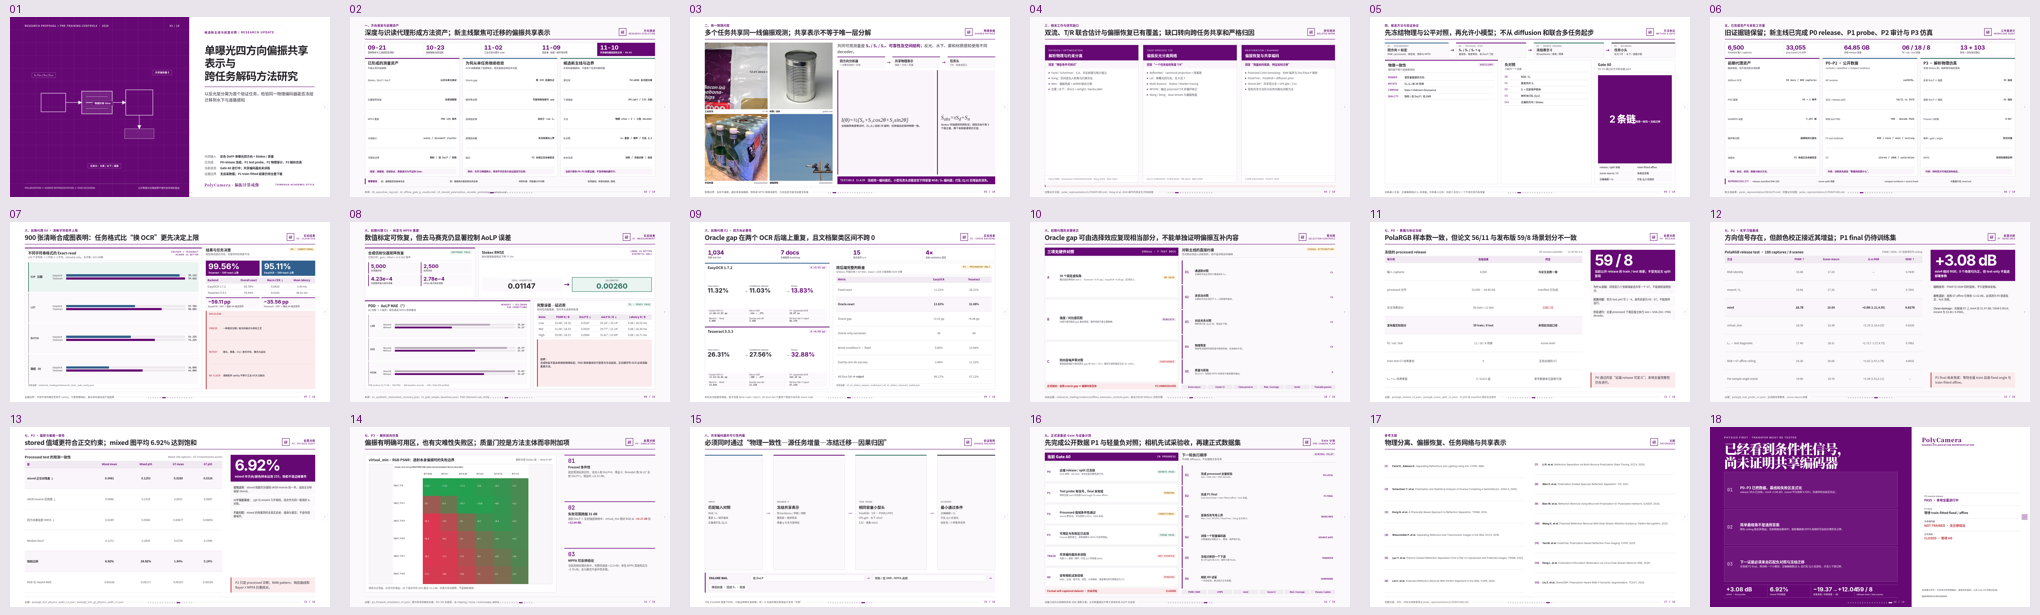
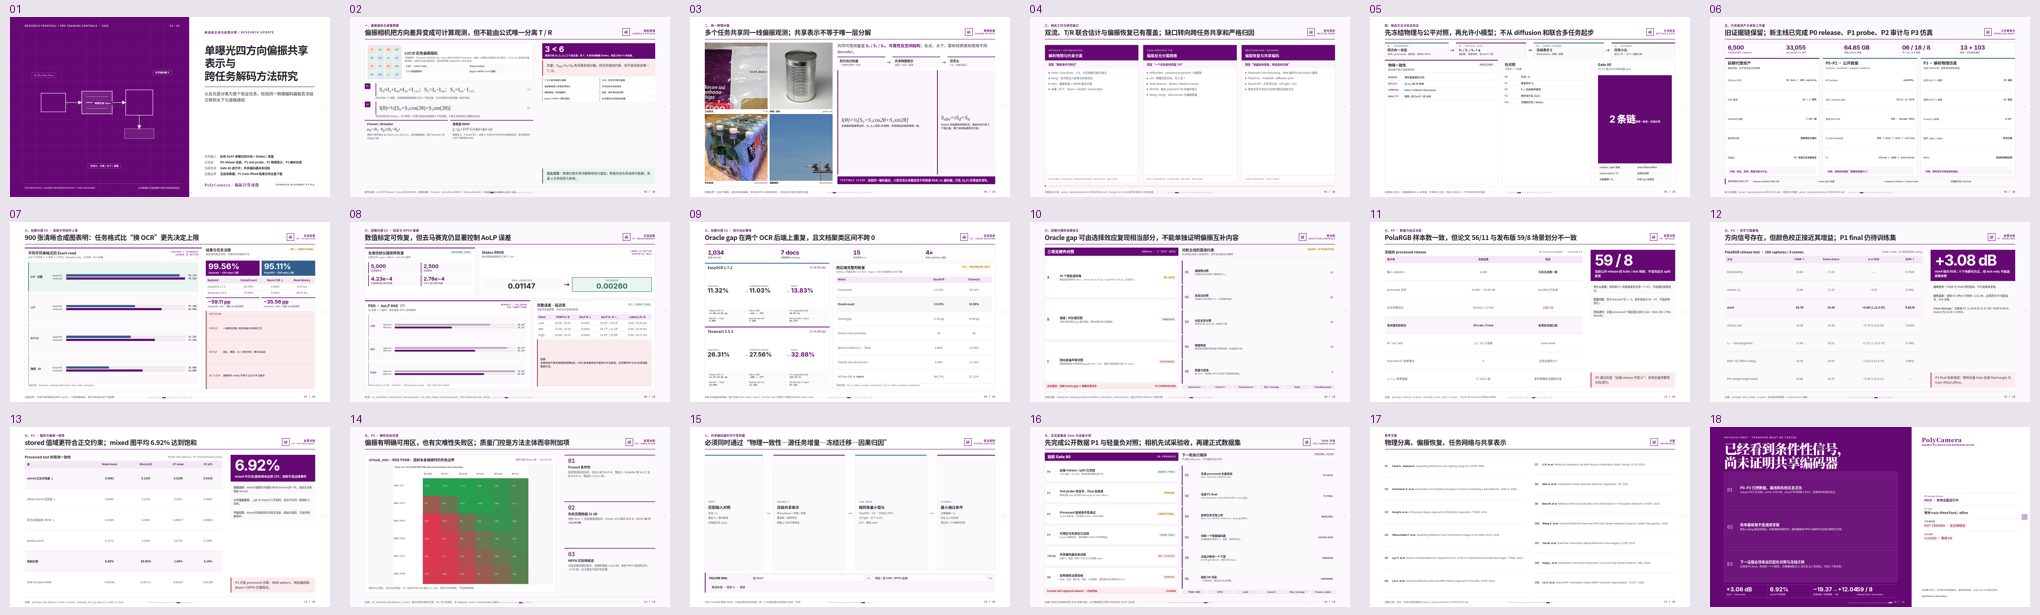
docs: revise slide 2 camera physics

Changed region(s): [[0.1544, 0.0309, 0.3088, 0.2472], [0.1853, 0.278, 0.3088, 0.3089]]

diff --git a/demo/tsinghua-ppt/index.html b/demo/tsinghua-ppt/index.html
@@ -208,6 +208,25 @@
   .variable-list{display:grid;gap:0;align-content:start}
   .variable{display:grid;grid-template-columns:5.5em 1fr;gap:.8vw;padding:1.05vh 0;border-bottom:1px solid var(--line);font:400 clamp(13px,.84vw,16px)/1.45 var(--sans);color:var(--ink-soft)}
   .variable .symbol{color:var(--accent);font:italic 600 clamp(18px,1.25vw,24px)/1.25 var(--equation)}
+  .sensor-overview{display:grid;grid-template-columns:10.5em 1fr;gap:1vw;align-items:center;padding:1.1vh .9vw;border:1px solid var(--line);background:#fff}
+  .sensor-mosaic{display:grid;grid-template-columns:repeat(4,1fr);grid-template-rows:repeat(4,1fr);aspect-ratio:1;border:1px solid var(--line-strong)}
+  .sensor-cell{display:grid;place-items:center;border:1px solid rgba(255,255,255,.8);font:800 clamp(9px,.61vw,12px)/1 var(--mono)}
+  .sensor-cell.r{background:#f7dfe2;color:#9b2e39}.sensor-cell.g{background:#dff0e8;color:#25644f}.sensor-cell.b{background:#dfe9f5;color:#315f8d}
+  .sensor-copy h2{font:750 clamp(17px,1.12vw,22px)/1.22 var(--sans)}
+  .sensor-copy p{margin-top:.45vh;color:var(--muted);font:550 clamp(11px,.72vw,14px)/1.38 var(--sans)}
+  .sensor-specs{display:grid;grid-template-columns:repeat(2,1fr);gap:.38vh .5vw;margin-top:.75vh}
+  .sensor-specs span{padding:.48vh .45vw;background:var(--paper-soft);font:650 clamp(10px,.67vw,13px)/1.25 var(--sans);color:var(--ink-soft)}
+  .physics-duo{display:grid;grid-template-columns:1fr 1fr;gap:.75vw;min-height:0}
+  .physics-card{display:grid;align-content:start;gap:.52vh;padding:.85vh .75vw;border-top:3px solid var(--accent);background:var(--paper-soft)}
+  .physics-card h3{font:750 clamp(14px,.92vw,18px)/1.22 var(--sans)}
+  .physics-card .math{font:italic 500 clamp(17px,1.18vw,23px)/1.25 var(--equation);color:var(--ink)}
+  .physics-card p{font:500 clamp(11px,.72vw,14px)/1.38 var(--sans);color:var(--muted)}
+  .constraint-stack{height:100%;display:grid;grid-template-rows:auto auto 1fr auto;gap:.85vh}
+  .rank-card{padding:1.05vh .85vw;background:var(--accent);color:#fff}
+  .rank-card strong{display:block;font:800 clamp(30px,2.45vw,48px)/1 var(--sans-latin)}
+  .rank-card span{display:block;margin-top:.4vh;font:650 clamp(11px,.73vw,14px)/1.35 var(--sans)}
+  .reality-list{display:grid;grid-template-columns:1fr 1fr;gap:.5vh .5vw;align-content:start}
+  .reality-item{padding:.68vh .55vw;border-left:3px solid var(--line-strong);background:#fff;font:600 clamp(10px,.67vw,13px)/1.3 var(--sans);color:var(--ink-soft)}
 
   /* THU10 · 规律分析 */
   .analysis-layout{height:100%;display:grid;grid-template-columns:66% 1fr;gap:2.5vw}
@@ -747,17 +766,17 @@
   </div>
 </section>
 
-<section class="slide soft" data-layout="THU15" data-animate="academic" data-slide-id="direction-change">
-  <div class="thu-page"><header class="thu-header"><div><div class="thu-section">一、方向演进与前期资产</div><h1 class="thu-title">深度与识读代理形成方法资产；新主线聚焦可迁移的偏振共享表示</h1></div><div class="thu-brand"><div class="thu-brand-mark">研</div><div class="thu-brand-copy"><strong>方向演进</strong><span>Research Evolution</span></div></div></header>
-  <main class="thu-content compact"><div class="workload-layout summary-layout">
-    <div class="dense-kpis workload-kpis" data-anim><div class="dense-kpi"><strong>09-21</strong><span>透明物体与三维感知宽调研</span></div><div class="dense-kpi"><strong>10-23</strong><span>偏振辅助深度增强</span></div><div class="dense-kpi"><strong>11-02</strong><span>工业识读代理与 Gate</span></div><div class="dense-kpi"><strong>11-09</strong><span>密集角 / 强度 / 噪声零对照</span></div><div class="dense-kpi pivot"><strong>11-10</strong><span>共享编码器候选新主线 · P0–P3</span></div></div>
-    <div class="workload-cards" data-anim>
-      <article class="workload-card"><h2>已形成的测量资产</h2><p class="sub">不是从零开始换题</p><div class="workload-list"><div><span>Stokes / DoLP / AoLP</span><strong>公式与单元测试</strong></div><div><span>仪器矩阵恢复</span><strong>合成误差链</strong></div><div><span>MPFA 重建</span><strong>PDD 120 条件</strong></div><div><span>分组统计</span><strong>scene / document cluster</strong></div><div><span>可靠性边界</span><strong>饱和 / 低 DoLP / 拒绝</strong></div></div><div class="workload-result">保留：测量链、冻结协议、质量意识与可证伪 Gate。</div></article>
-      <article class="workload-card"><h2>为何从单任务继续收敛</h2><p class="sub">OCR 结果暴露了选择效应，而非直接证明互补内容</p><div class="workload-list"><div><span>Oracle gap</span><strong>跨 OCR 后端为正</strong></div><div><span>噪声零对照</span><strong>可复现相当部分 gap</strong></div><div><span>连续固定角</span><strong>未优于 raw I₀</strong></div><div><span>部署选择器</span><strong>未兑现事后上界</strong></div><div><span>结论</span><strong>P2 未成立也未被否定</strong></div></div><div class="workload-result">转向：先学习物理表示，再用不同任务头验证是否可迁移。</div></article>
-      <article class="workload-card"><h2>候选新主线与边界</h2><p class="sub">共享的是偏振场，不是某个任务的最终图</p><div class="workload-list"><div><span>源任务</span><strong>PolaRGB 反光层分离</strong></div><div><span>下游候选</span><strong>UPLight / ZJU 分割</strong></div><div><span>方法</span><strong>物理 stem + E + 小型 decoder</strong></div><div><span>负对照</span><strong>S₀ 重复 / 噪声 / 打乱 Q,U</strong></div><div><span>尚未完成</span><strong>训练 / 冻结迁移 / 自采</strong></div></div><div class="workload-result">当前只报告 P0–P3 前置证据，不宣称编码器可行。</div></article>
+<section class="slide soft" data-layout="THU09" data-animate="academic" data-slide-id="direction-change">
+  <div class="thu-page"><header class="thu-header"><div><div class="thu-section">一、偏振相机与成像物理</div><h1 class="thu-title">偏振相机把方向差异变成可计算观测，但不能由公式唯一分离 T / R</h1></div><div class="thu-brand"><div class="thu-brand-mark">研</div><div class="thu-brand-copy"><strong>相机原理</strong><span>Camera & Physics</span></div></div></header>
+  <main class="thu-content tight"><div class="formula-layout">
+    <div class="derivation" data-anim>
+      <article class="sensor-overview"><div class="sensor-mosaic" aria-label="彩色 Bayer 与四方向微偏振片组成的 4×4 采样示意，实际排列需按数据手册核对"><span class="sensor-cell r">0°</span><span class="sensor-cell g">45°</span><span class="sensor-cell r">90°</span><span class="sensor-cell g">135°</span><span class="sensor-cell g">90°</span><span class="sensor-cell b">135°</span><span class="sensor-cell g">0°</span><span class="sensor-cell b">45°</span><span class="sensor-cell r">0°</span><span class="sensor-cell g">45°</span><span class="sensor-cell r">90°</span><span class="sensor-cell g">135°</span><span class="sensor-cell g">90°</span><span class="sensor-cell b">135°</span><span class="sensor-cell g">0°</span><span class="sensor-cell b">45°</span></div><div class="sensor-copy"><h2>LUCID 彩色偏振相机</h2><p>代表硬件：Phoenix PHX050S-QC / Sony IMX250MYR Polarsens。相机一次曝光记录四方向子像元，S₀/S₁/S₂ 由标定与重建得到；左图仅示意双层采样，实际排列按 datasheet / SDK 核对。</p><div class="sensor-specs"><span>5 MP · 2448×2048</span><span>Global shutter</span><span>2×2 微偏振阵列</span><span>Bayer×MPFA = 4×4 周期</span></div></div></article>
+      <div class="derivation-step"><span class="step">01</span><div><div class="equation">S₀≈I₀+I₉₀≈I₄₅+I₁₃₅；S₁=I₀−I₉₀；S₂=I₄₅−I₁₃₅ <span class="no">(1)</span></div><p class="caption">四方向有 4 个读数，但理想线偏振模型只有 3 个独立量；正交和差异也是测量一致性检查。</p></div></div>
+      <div class="derivation-step"><span class="step">02</span><div><div class="equation">I(θ)=½[S₀+S₁cos(2θ)+S₂sin(2θ)] <span class="no">(2)</span></div><p class="caption">给定校准后的 Stokes，可计算同一位置任意虚拟检偏角 θ 下的强度；不能生成饱和后已截断的信息。</p></div></div>
+      <div class="physics-duo"><article class="physics-card"><h3>Fresnel / Brewster</h3><div class="math">ρ<sub>R</sub>=|R<sub>s</sub>−R<sub>p</sub>|/(R<sub>s</sub>+R<sub>p</sub>)</div><p>理想介质界面在 θ<sub>B</sub>=atan(n₂/n₁) 处 R<sub>p</sub>=0，反射偏振最强；离开 Brewster 角后收益下降。</p></article><article class="physics-card"><h3>微表面 BRDF</h3><div class="math">f<sub>r</sub>=f<sub>d</sub>+D·F·G/[4(n·l)(n·v)]</div><p>粗糙度 D、Fresnel 项 F、遮蔽 G 与法向分布共同决定镜面反射；现实像素积分多个微表面与波长。</p></article></div>
     </div>
-    <div class="repro-strip" data-anim><strong>叙事变化</strong><span>旧：偏振能否改善单任务</span><span>新：偏振表示能否跨任务复用</span><span>共同约束：同容量公平对照</span><span>共同底线：失败时回退 / 拒绝</span></div>
-  </div></main><footer class="thu-footer"><span>来源：09_execution_log.md；14_offline_gate_p_results.md；15_shared_polarization_encoder_pretraining_controls.md</span><span class="thu-footer-line"></span><span class="thu-page-no">02 / 18</span></footer></div>
+    <aside class="constraint-stack" data-anim><div class="rank-card"><strong>3 &lt; 6</strong><span>观测只有 (S₀,S₁,S₂) 三个独立量；若 T、R 各有线偏振 Stokes，则至少有六个未知量。</span></div><div class="callout danger"><strong>欠定：</strong>S<sub>obs</sub>=S<sub>T</sub>+S<sub>R</sub> 有无限多组分解。四方向增加约束，但不自动给出唯一 T / R。</div><div class="reality-list"><div class="reality-item">T 与 R 都可能部分偏振</div><div class="reality-item">LED / 天空光可能已偏振</div><div class="reality-item">玻璃曲率使入射角空间变化</div><div class="reality-item">多次反射与彩色吸收</div><div class="reality-item">粗糙表面 / 次表面散射</div><div class="reality-item">饱和、噪声和动态范围</div><div class="reality-item">Bayer×MPFA 子像元错位</div><div class="reality-item">去马赛克与光谱响应误差</div></div><div class="callout success"><strong>因此需要：</strong>物理约束负责可解释观测与重组；数据先验负责选择可能解；质量 q 负责回退与拒绝。</div></aside>
+  </div></main><footer class="thu-footer"><span>硬件来源：LUCID Phoenix / Sony IMX250MYR；物理依据：Fresnel、microfacet BRDF、Stokes/Mueller；自有型号仍以铭牌与 SDK 为准</span><span class="thu-footer-line"></span><span class="thu-page-no">02 / 18</span></footer></div>
 </section>
 
 <section class="slide" data-layout="THU03" data-animate="academic" data-slide-id="background-physics">
@@ -932,7 +951,7 @@
 <script>
 const SPEAKER_NOTES = [
   {id:'cover',title:'候选新主线与当前边界',section:'开场',minutes:0.4,purpose:'交代共享偏振表示的新主线、已完成 P0–P3 和尚未训练的边界',talk:['候选主线不再是只优化一个 OCR 或去反光任务，而是学习可冻结复用的偏振表示','反光层分离是第一个源任务，水下与道路分割是下游候选','目前只完成公开数据和解析仿真的 P0–P3；没有共享编码器结果，也没有自采数据'],transition:'先说明方向如何从前期深度和识读代理演进到共享表示'},
-  {id:'direction-change',title:'方向演进与前期资产',section:'开场',minutes:1.1,purpose:'说明新主线承接了哪些资产，以及为什么 oracle gap 促使问题进一步收敛',talk:['深度线留下测量、质量和可靠性资产；工业识读线留下冻结协议和选择效应零对照','SHDocs 上 oracle gap 为正，但同内容噪声可复现相当部分，因此不能把事后最好等同于偏振互补','新问题改成：同一物理编码器能否在冻结后服务不同任务，而不是为每个任务重新发明偏振前端'],transition:'下一页用统一 Stokes 观测说明为什么这种共享有物理基础'},
+  {id:'direction-change',title:'偏振相机与成像物理',section:'物理基础',minutes:1.6,purpose:'说明彩色 DoFP 如何从四方向观测恢复 Stokes，并解释 Fresnel/BRDF 为什么仍不能唯一求解 T/R',talk:['相机直接记录的是 0、45、90、135 度子像元强度；S0、S1、S2 需要经过方向响应标定、Bayer×MPFA 重建后计算','代表硬件是 LUCID Phoenix PHX050S-QC 与 Sony IMX250MYR 彩色 Polarsens：5 MP、全局快门、2×2 微偏振阵列与 Bayer 叠加形成 4×4 采样周期；自有型号仍以铭牌和 SDK 为准','由 Stokes 可以合成同一位置任意虚拟检偏角的强度，但不能恢复饱和后已经截断的信息','Fresnel 说明 Brewster 角附近反射偏振最强；微表面 BRDF 进一步受到粗糙度、法向分布、遮蔽和波长影响','观测只有三个独立线偏振量，而 T、R 各自都可能有三个 Stokes 未知量；再加部分偏振照明、曲率、多次反射、噪声和去马赛克，所以不是代公式即可唯一求解，仍需要数据先验与质量门控'],transition:'下一页再把这些物理约束映射到传统 ICA、偏振 T/R 网络和其他相关工作',cue:'先指左上相机采样，再依次指公式、Fresnel/BRDF 和右侧“3<6”欠定关系'},
   {id:'background-physics',title:'统一物理问题',section:'问题与文献',minutes:1.0,purpose:'给出共享表示的物理依据和欠定边界',talk:['四方向只测得三个独立线偏振 Stokes 量，多个任务共享的是这一光场而不是最终结果图','互不相干光的 Stokes 可加，使反光、雾和水下可写成 direct 与 nuisance 的统一形式','但两个未知层通常超过三个未知量，物理只缩小解空间，不能保证唯一分解','所以要同时输出质量，并在低 DoLP、饱和和 MPFA 失败时回退'],transition:'物理基础已有长期积累，下面明确现有网络已经做到哪里、我们的缺口还剩什么'},
   {id:'related-work-map',title:'相关工作与研究缺口',section:'问题与文献',minutes:1.2,purpose:'按路线梳理前人工作，并避免把已有双流/T-R/偏振恢复误写成创新',talk:['传统路线从 ICA、半反射面到空间变化入射角和 ADMM，主要回答可辨识条件','任务网络已经覆盖 canonical projection、先 R 后 T、多次反射 tracing、polarized T/R、dual-stream 和 polarization restoration','PolarFree 提供大规模数据，ShareCMP 提供共享双分支与下游接口','因此候选差异必须是冻结跨任务、严格负对照归因和失效质量门控；Deng 2026 的全文细节仍需核查'],transition:'基于这个缺口，下一页给出最小方法和不允许跳过的 Gate'},
   {id:'system-protocol',title:'候选方法与验证协议',section:'方法与协议',minutes:1.0,purpose:'说明物理 stem、共享编码器、任务头、负对照和 Gate A0',talk:['先把四方向校准为 Stokes 与质量，再进入共享编码器；decoder 保持小且同容量','物理约束包括重投影、角度等变和层重组，不能只看 PSNR','负对照只破坏一个因素：重复 S0、噪声副本、跨样本打乱 Q,U','P0–P3 未完成前不训练；通过后也只跑轻量 pilot，不先上 diffusion'],transition:'先集中展示本轮新增的公开数据与仿真工作量'},

diff --git a/demo/tsinghua-ppt/speech-script.md b/demo/tsinghua-ppt/speech-script.md
@@ -1,7 +1,7 @@
 # 周汇报演讲稿（对应 HTML PPT 18 页）
 
 - **主题：** 单曝光四方向偏振共享表示与跨任务解码方法研究。
-- **计划时长：** 演讲者备注合计 16.1 分钟，建议实际控制在 17–18 分钟。
+- **计划时长：** 演讲者备注合计 16.6 分钟，建议实际控制在 17–18 分钟。
 - **证据边界：** P0–P3 来自公开数据和解析仿真；共享编码器尚未训练；没有自采结果。
 - **用法：** 普通段落可直接讲；引用块为提醒，不念。
 
@@ -10,7 +10,7 @@
 | 页 | 内容 | 计划 | 观众只需记住 |
 |---|---|---:|---|
 | 1 | 封面 | 0.4 | 新主线是共享偏振编码器，但尚未训练 |
-| 2 | 方向演进 | 1.1 | 深度/OCR 资产保留，oracle gap 促使问题继续收敛 |
+| 2 | 偏振相机与成像物理 | 1.6 | 四方向可恢复 Stokes，但 T/R 仍然欠定 |
 | 3 | 统一物理 | 1.0 | 共享的是 Stokes 光场，不是唯一层分解 |
 | 4 | 相关工作 | 1.2 | 双流、T/R、偏振恢复已有覆盖 |
 | 5 | 方法与 Gate | 1.0 | 先冻结物理和负对照，再允许小模型 |
@@ -31,11 +31,15 @@
 
 先明确边界：目前完成的是公开数据 P0–P3 和解析仿真，没有训练共享编码器，也没有自采数据。
 
-## 第 2 页 · 方向演进
+## 第 2 页 · 偏振相机与成像物理
 
-前期深度线留下了 Stokes、标定、质量和可靠性资产；工业识读线留下了冻结协议和零对照。SHDocs 上事后选四方向的 gap 为正，但同内容噪声也能复现其中相当一部分，所以不能把 oracle gap 直接解释成偏振互补。
+这一页先说明偏振相机到底提供什么。代表硬件是 LUCID Phoenix PHX050S-QC，内部使用 Sony IMX250MYR 彩色偏振传感器，5 百万像素、全局快门。四个微偏振方向和 Bayer 滤色阵列叠加后形成更稀疏的空间采样。左边的 4×4 只是结构示意，实际相位排列仍要按自有相机的数据手册和 SDK 核对。
 
-因此问题改为：同一个物理编码器，冻结以后能否服务不同任务，而不是每个任务重新设计一个偏振前端。
+相机直接记录的不是三张 S0、S1、S2 图，而是 0、45、90、135 度四类子像元强度。经过方向响应标定、去马赛克和配准后，可以计算 S0、S1、S2，再用公式合成同一位置任意虚拟检偏角的强度。但如果原始方向已经饱和，公式不能恢复被截断的信息。
+
+偏振为什么可能帮助反光分离，可以从 Fresnel 看：在理想介质的 Brewster 角附近，p 偏振反射趋近于零，反射的线偏振度最高。但真实表面还要经过微表面 BRDF：粗糙度、微法向分布、遮蔽、Fresnel 项和波长一起决定最终反射，单个像素还会积分多个微表面。
+
+最后是关键的欠定关系。四方向理想情况下只有 S0、S1、S2 三个独立量；如果 transmission 和 reflection 各自都是部分偏振光，它们合起来至少有六个未知量。现实中还有部分偏振照明、玻璃曲率、多次反射、彩色吸收、饱和、噪声和 Bayer×MPFA 重建误差。因此这不是把 Fresnel 或 Stokes 公式代进去就能唯一求解的问题，仍然需要数据先验来选择可能解，并需要质量门控在不可辨识时回退或拒绝。
 
 ## 第 3 页 · 统一物理问题
 

diff --git a/demo/tsinghua-ppt/images/SOURCES.md b/demo/tsinghua-ppt/images/SOURCES.md
@@ -25,8 +25,8 @@
 
 | 页码 | 内容 | 冻结来源 |
 |---|---|---|
-| 2 | 方向演进、旧代理结论与新主线边界 | `09_execution_log.md`、`14_offline_gate_p_results.md`、`15_shared_polarization_encoder_pretraining_controls.md` |
-| 3 | 四方向 Stokes 与统一 direct/nuisance 物理形式 | `05_polarization_camera_physical_models.md`、`polar_representation/LITERATURE.md`；4 张照片为上述 Commons 场景示意 |
+| 2 | 彩色偏振相机、Stokes、Fresnel、microfacet BRDF 与 T/R 欠定 | LUCID Phoenix PHX050S-QC 产品资料、Sony IMX250MYR / Polarsens 资料、`05_polarization_camera_physical_models.md`、Born & Wolf *Principles of Optics*、Cook–Torrance / Walter 等 microfacet 模型、Schechner / ReflectNet 的半反射层模型；4×4 图为结构示意，非芯片实际相位图 |
+| 3 | 四方向 Stokes 与统一 direct/nuisance 物理形式 | `05_polarization_camera_physical_models.md`、`polar_representation/LITERATURE.md`；4 张照片为上述 Commons 场景示意（该页将在下一轮改为传统 ICA 与偏振分离网络） |
 | 4 | 物理分离、任务网络、偏振恢复与共享表示路线 | `polar_representation/LITERATURE.md`；Deng et al. 2026 的网络细节按“待全文核查”处理 |
 | 5 | 物理 stem、共享编码器、负对照与 Gate A0 | `15_shared_polarization_encoder_pretraining_controls.md` 第 10 节 |
 | 6 | PolaRGB 与 P0–P3 工作量 | `polar_representation/evidence/polargb_release_v1.json`、`p0_p3_evidence_index_v1.json`、`polar_representation/RESULTS.md` |
